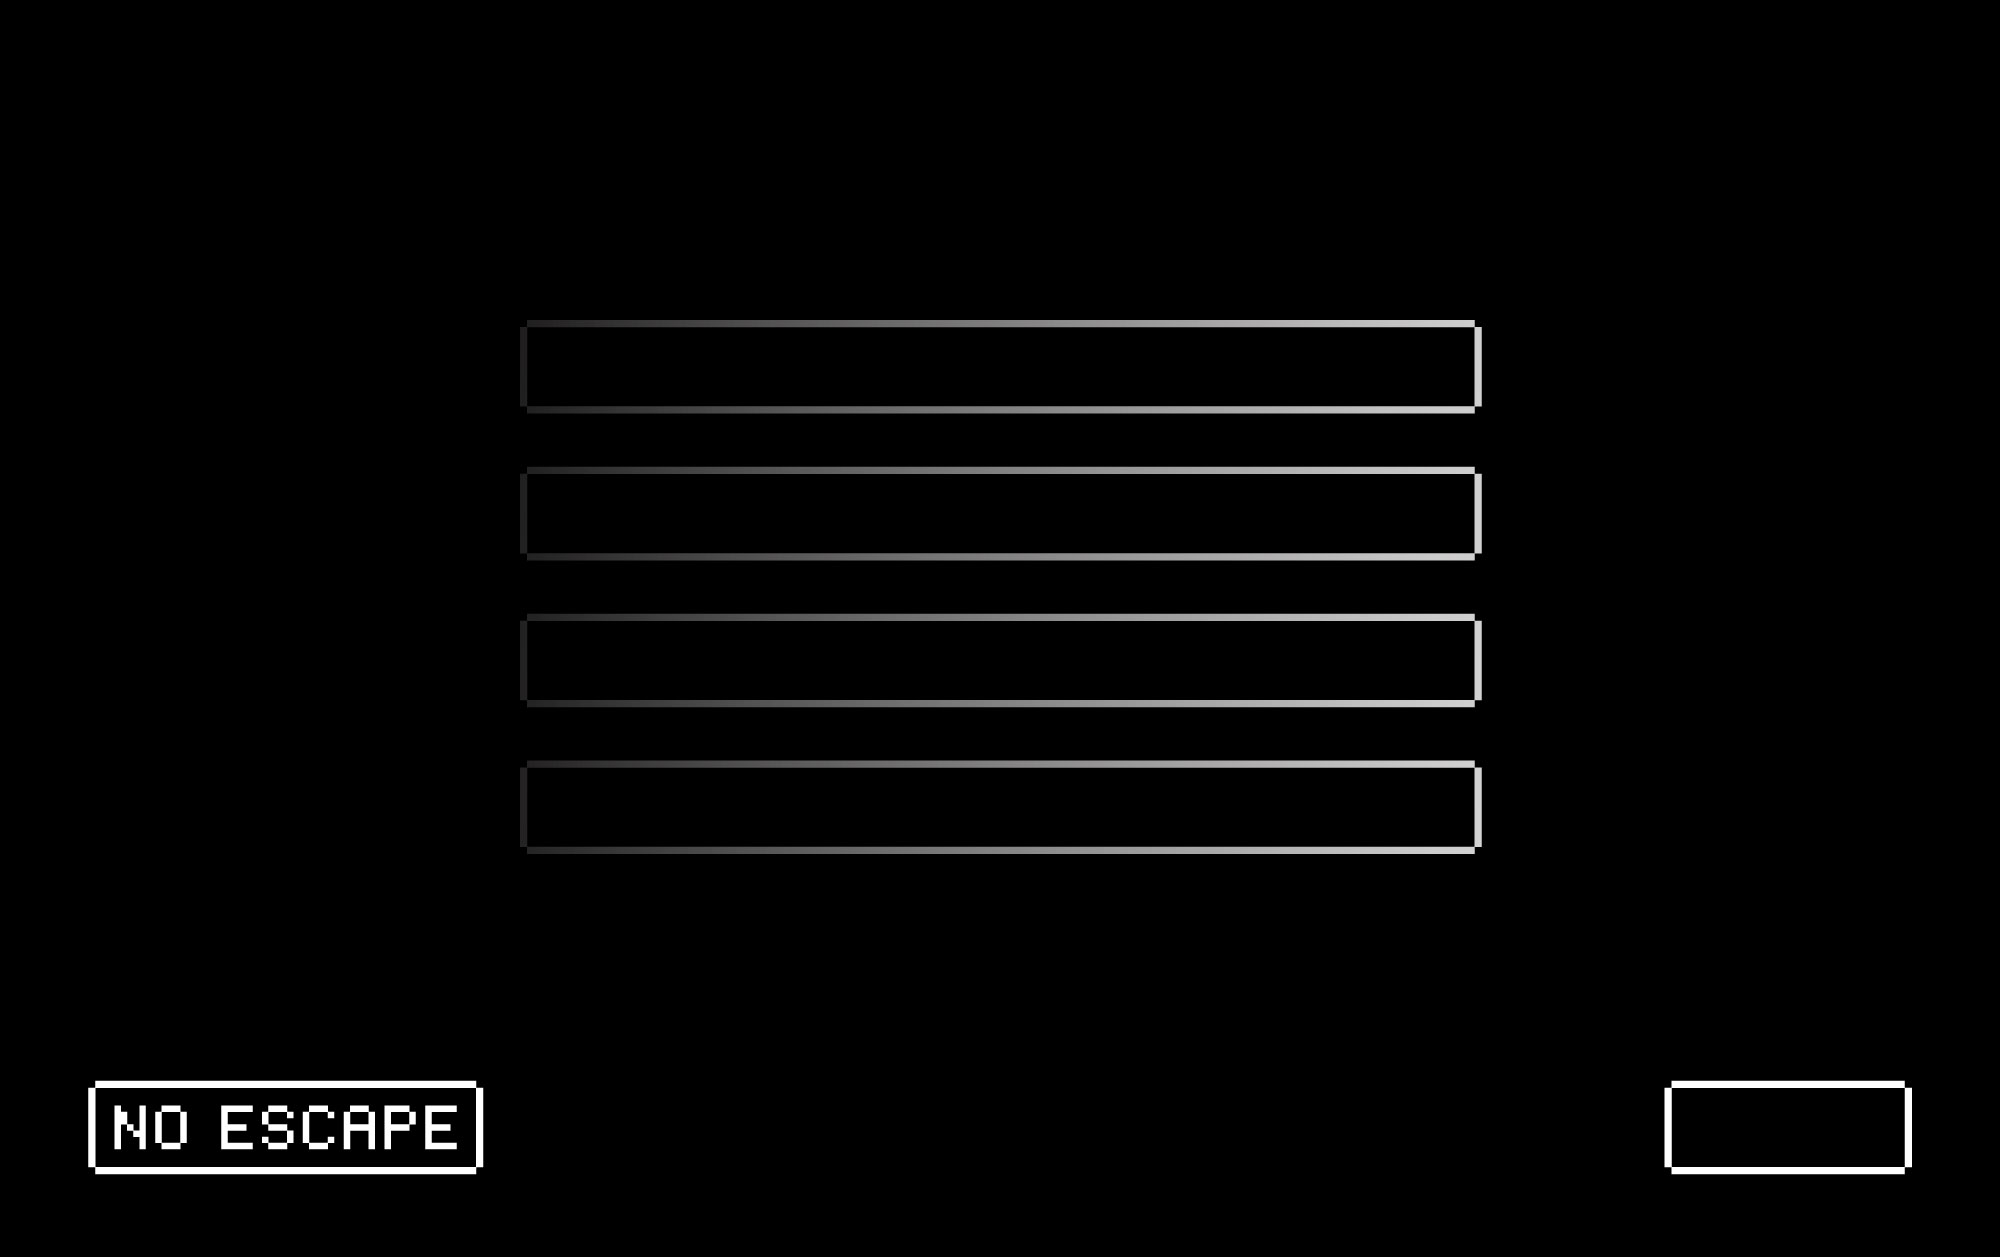
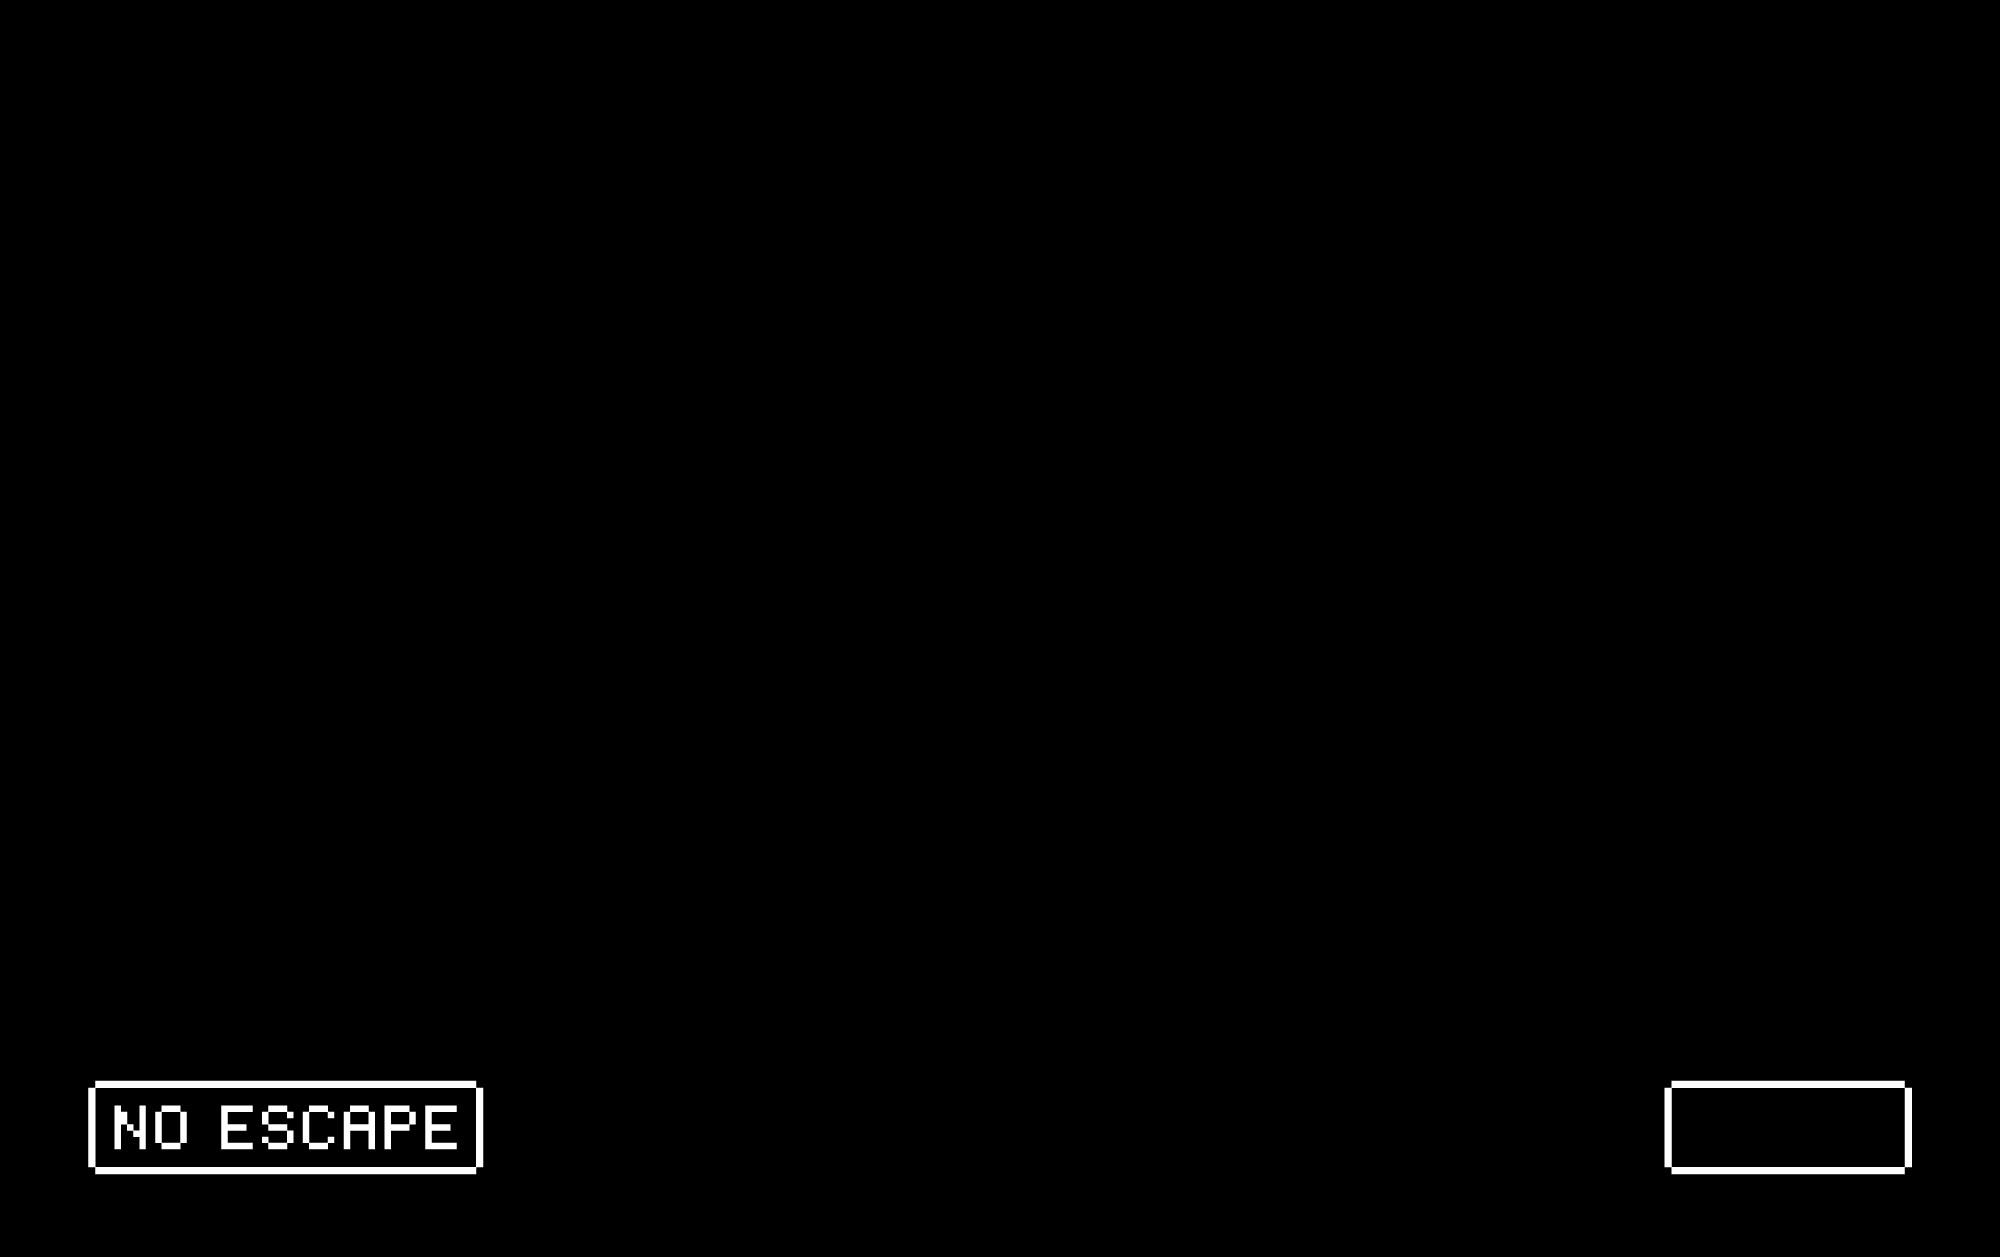
Added profile and mission page

Changed region(s): [[0.248, 0.3723, 0.744, 0.6826], [0.248, 0.2482, 0.744, 0.3413], [0.248, 0.4964, 0.279, 0.5585]]

diff --git a/css/profile_style.css b/css/profile_style.css
@@ -1,5 +1,5 @@
 body {
-  background-image: url('../assets/img/profile_bgimg.jpg');
+  background-color: black;
 }
 
 #title {
@@ -11,4 +11,60 @@ body {
   position: fixed;
   top: 15%;
   color: #ffca23;
+}
+
+.userInp {
+  display: flex;
+  justify-content: center;
+  transform: translateY(13rem);
+}
+.inpWrapper div {
+  padding: 20px;
+}
+
+.userInp input {
+  font-family: globalFont;
+  color: white;
+  border: 0px;
+  padding: 12px 10px;
+  transform: translateY(-7px);
+  text-align: left;
+  font-size: 25px;
+}
+.userInp p {
+  font-size: 30px;
+  transform: translateY(5px);
+}
+
+#ageBox {
+  margin-left: 70px;
+}
+
+#nameBox {
+  margin-left: 35px;
+}
+
+#countryBox {
+  margin-right: 20px;
+}
+
+.footer {
+  display: flex;
+  justify-content: space-between;
+  position: fixed;
+  bottom: 50px;
+  width: 100%;
+}
+
+.footer h1 {
+  margin: 40px;
+  color: yellow;
+  border: 5px solid yellow;
+  padding: 10px;
+}
+
+#next:hover {
+  cursor: pointer;
+  color: white;
+  border-color: white;
 }

diff --git a/profile.html b/profile.html
@@ -11,6 +11,32 @@
     <div id="title">
       <h2 id="profileTitle">ENTER YOUR DETAILS</h2>
     </div>
+    <div class="inpWrapper">
+      <div class="userInp" id="nameBox">
+        <p>NAME:</p>
+        <input type="text" name="" id="" />
+      </div>
+
+      <div class="userInp" id="ageBox">
+        <p>AGE:</p>
+        <input type="number" name="" id="" />
+      </div>
+
+      <div class="userInp">
+        <p>GENDER:</p>
+        <input type="text" name="" id="" />
+      </div>
+
+      <div class="userInp" id="countryBox">
+        <p>COUNTRY:</p>
+        <input type="text" name="" id="" />
+      </div>
+    </div>
+    <div class="footer">
+      <h1>NO ESCAPE</h1>
+      <h1 id="next">NEXT</h1>
+    </div>
+
     <script src="./js/global.js"></script>
     <script src="./js/profile.js"></script>
   </body>

diff --git a/missions.html b/missions.html
@@ -1,0 +1,25 @@
+<!DOCTYPE html>
+<html lang="en">
+  <head>
+    <meta charset="UTF-8" />
+    <meta name="viewport" content="width=device-width, initial-scale=1.0" />
+    <title>Missions</title>
+    <link rel="stylesheet" href="./css/global.css" />
+    <link rel="stylesheet" href="./css/missions.css" />
+  </head>
+  <body>
+    <div class="title">
+      <p id="missions">MISSIONS</p>
+    </div>
+    <div class="missionsText">
+      <p class="1">HAMILTON DEPRESSION RATING SCALE</p>
+      <p class="2">MONTGOMERY & ÅSBERG DEPRESSION RATING SCALE</p>
+      <p class="3">QUICK INVENTORY OF DEPRESSIVE SYMPTOMATOLOGY</p>
+    </div>
+    <div class="select">
+      <p>SELECT</p>
+    </div>
+    <script src="./js/global.js"></script>
+    <script src="./js/missions.js"></script>
+  </body>
+</html>

diff --git a/css/missions.css b/css/missions.css
@@ -1,0 +1,47 @@
+body {
+  background-color: black;
+}
+.title {
+  display: flex;
+  justify-content: center;
+  color: #ffca23;
+}
+
+#missions {
+  font-size: 30px;
+  position: fixed;
+  top: 60px;
+}
+
+.missionsText {
+  display: grid;
+  justify-content: center;
+  transform: translateY(200px);
+}
+
+.missionsText p {
+  padding: 15px;
+  margin: 10px;
+  text-align: center;
+  font-size: 20px;
+  opacity: 0.6;
+}
+
+#bordered {
+  border: 2px solid #ffca23;
+  opacity: 1;
+}
+
+.select {
+  display: flex;
+  justify-content: center;
+}
+
+.select p {
+  position: fixed;
+  bottom: 25%;
+  font-size: 25px;
+  border: 2px solid #ffca23;
+  padding: 10px;
+  color: #ffca23;
+}

diff --git a/js/profile.js b/js/profile.js
@@ -1,3 +1,15 @@
 const profileTitle = document.getElementById('profileTitle');
 
 blinkingText(profileTitle);
+
+const audio = new Audio('../assets/audio/mouse.mp3');
+
+const next = document.getElementById('next');
+
+next.addEventListener('click', (e) => {
+  audio.play();
+  setTimeout(() => {
+    window.location.href = '../missions.html';
+  }, 500);
+  e.preventDefault();
+});

diff --git a/css/global.css b/css/global.css
@@ -11,9 +11,9 @@
 
 body {
   font-family: globalFont;
-  background-image: url('../assets/img/bgimg.jpg');
   background-size: cover;
   background-position: center;
   background-repeat: no-repeat;
   height: 100vh;
+  color: white;
 }

diff --git a/js/missions.js b/js/missions.js
@@ -1,0 +1,7 @@
+const missions = document.getElementById('missions');
+
+blinkingText(missions);
+
+const selectedMission = document.getElementsByClassName(`${missionCount}`)[0];
+
+selectedMission.setAttribute('id', 'bordered');

diff --git a/css/main.css b/css/main.css
@@ -1,5 +1,6 @@
 body {
   font-family: globalFont;
+  background-image: url('../assets/img/bgimg.jpg');
 }
 
 #lead {

diff --git a/js/global.js b/js/global.js
@@ -10,3 +10,5 @@ function blinkingText(tag) {
     }
   }, 750);
 }
+
+let missionCount = 1;
